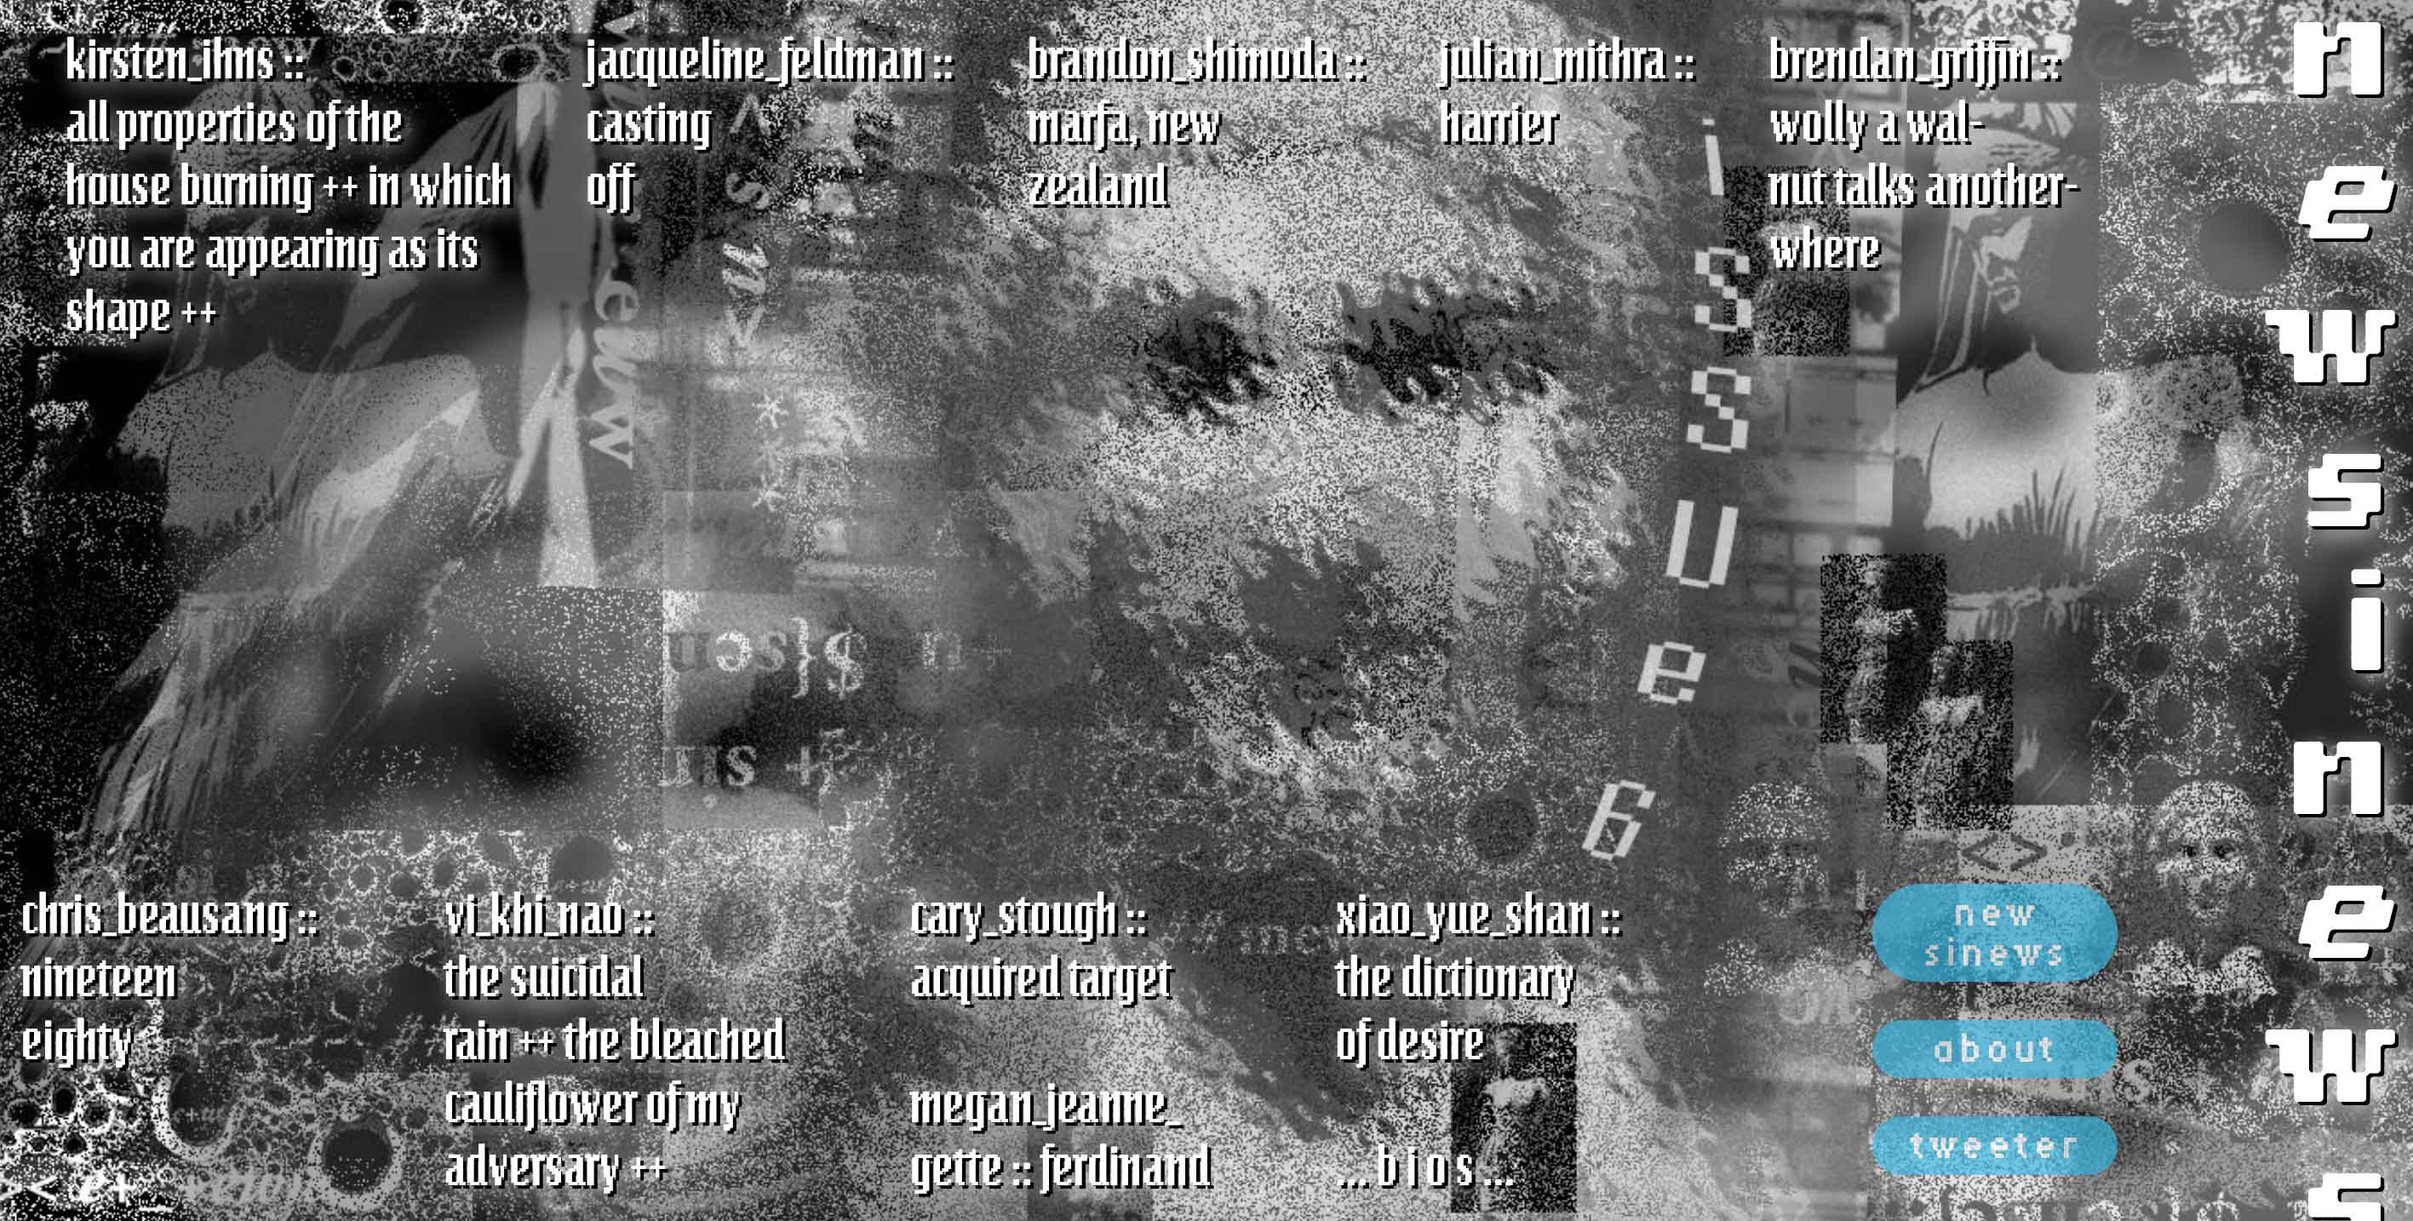
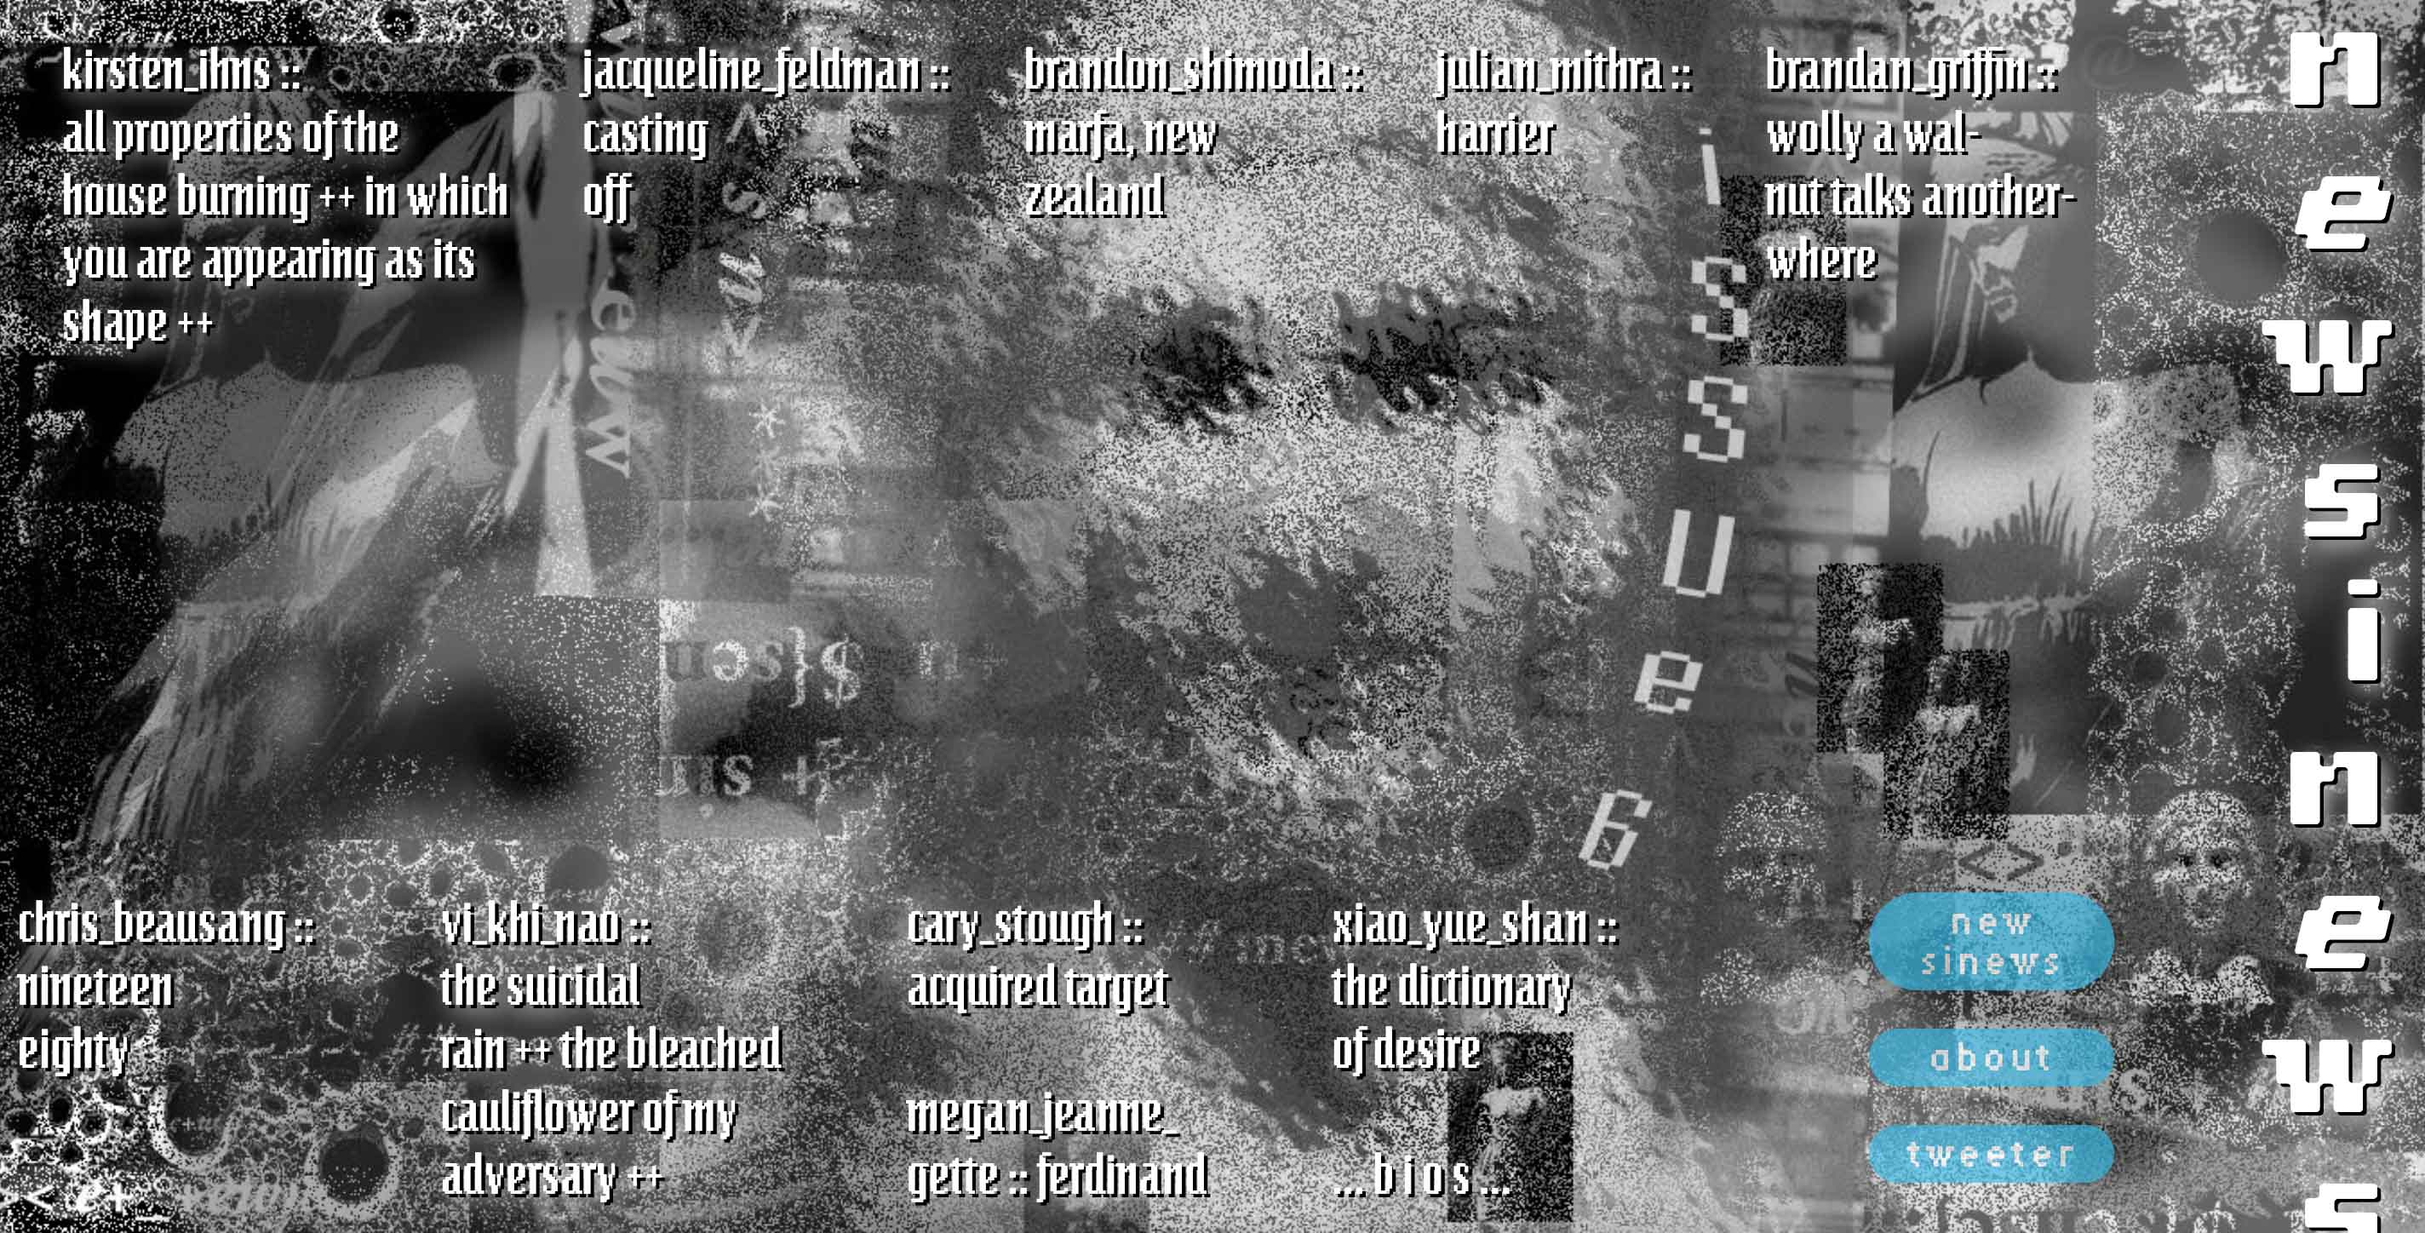
fixes all kinds of stuff

diff --git a/pages/issue6/index.js b/pages/issue6/index.js
@@ -16,39 +16,39 @@ export default function Issue6() {
 
               <div className={styles.issueContentsOne}>
                 <div className={styles.workColumn}>
-                 <Link href="/blank/ihns" passHref><div className={styles.workLink}>kirsten_ihns ::<br/>all properties of the<br/>house burning ++ in which <br/>you are appearing as its<br/>shape ++ </div></Link>
+                 <Link href="/issue6/ihns" passHref><div className={styles.workLink}>kirsten_ihns ::<br/>all properties of the<br/>house burning ++ in which <br/>you are appearing as its<br/>shape ++ </div></Link>
                 </div>
                 <div className={styles.workColumn}>
-                <Link href="/blank/castingoff" passHref><div className={styles.workLink}>jacqueline_feldman ::<br/>casting<br/>off</div></Link>
+                <Link href="/issue6/castingoff" passHref><div className={styles.workLink}>jacqueline_feldman ::<br/>casting<br/>off</div></Link>
                 </div>
                 <div className={styles.workColumn}>
-                  <Link href="/blank/mfnz" passHref><div className={styles.workLink}>brandon_shimoda ::<br/>marfa, new<br/>zealand</div></Link>
+                  <Link href="/issue6/mfnz" passHref><div className={styles.workLink}>brandon_shimoda ::<br/>marfa, new<br/>zealand</div></Link>
                 </div>
                 <div className={styles.workColumn}>
-                <Link href="/blank/harrier" passHref><div className={styles.workLink}> julian_mithra ::<br/>harrier</div></Link>
+                <Link href="/issue6/harrier" passHref><div className={styles.workLink}> julian_mithra ::<br/>harrier</div></Link>
                 </div>
                 <div className={styles.workColumn}>
-                  <Link href="/blank/griffin" passHref><div className={styles.workLink}>brandan_griffin ::<br/>wolly a wal-<br/>nut talks another-<br/>where</div></Link>
+                  <Link href="/issue6/griffin" passHref><div className={styles.workLink}>brandan_griffin ::<br/>wolly a wal-<br/>nut talks another-<br/>where</div></Link>
                 </div>
                 </div>
                   <div className={styles.issueContentsTwo}>
                 <div className={styles.workColumn}>
-                    <Link href="/blank/beausang" passHref><div className={styles.workLink}>chris_beausang ::<br/>nineteen<br/>eighty</div></Link>
+                    <Link href="/issue6/beausang" passHref><div className={styles.workLink}>chris_beausang ::<br/>nineteen<br/>eighty</div></Link>
                 </div>
                 <div className={styles.workColumn}>
-                  <Link href="/blank/numbers" passHref><div className={styles.workLink}>vi_khi_nao ::<br/>the suicidal<br/>rain ++ the bleached<br/>cauliflower of my<br/>adversary ++</div></Link>
+                  <Link href="/issue6/numbers" passHref><div className={styles.workLink}>vi_khi_nao ::<br/>the suicidal<br/>rain ++ the bleached<br/>cauliflower of my<br/>adversary ++</div></Link>
                 </div>
                 <div className={styles.workColumn}>
-                  <Link href="/blank/target" passHref><div className={styles.workLink}>cary_stough ::<br/>acquired target</div></Link>
+                  <Link href="/issue6/target" passHref><div className={styles.workLink}>cary_stough ::<br/>acquired target</div></Link>
                   <br/>
                   <br/>
-                    <Link href="/blank/ferdinand" passHref><div className={styles.workLink}>megan_jeanne_<br/>gette :: ferdinand</div></Link>
+                    <Link href="/issue6/ferdinand" passHref><div className={styles.workLink}>megan_jeanne_<br/>gette :: ferdinand</div></Link>
                 </div>
                 <div className={styles.workColumn}>
-                <Link href="/blank/desire" passHref><div className={styles.workLink}>xiao_yue_shan ::<br/>the dictionary<br/>of desire</div></Link>
+                <Link href="/issue6/desire" passHref><div className={styles.workLink}>xiao_yue_shan ::<br/>the dictionary<br/>of desire</div></Link>
                 <br/>
                 <br/>
-                <Link href="/blank/bios" passHref><div className={styles.workLink}>... b  i  o s ...</div></Link>
+                <Link href="/issue6/bios" passHref><div className={styles.workLink}>... b  i  o s ...</div></Link>
                   </div>
                   <div className={styles.siteShortcuts}>
                         <Link href="/" passHref><button className={styles.linkButton}>new sinews</button></Link>

diff --git a/pages/index.js b/pages/index.js
@@ -10,6 +10,7 @@ Home.image = "https://www.newnewsinews.com/images/Issue5Cover.jpg"
 
 export default function Home() {
 
+  const [issueSixDropdownClass, setIssueSixDropdownClass] = useState("issueContentClosed");
   const [issueFiveDropdownClass, setIssueFiveDropdownClass] = useState("issueContentClosed");
   const [issueFourDropdownClass, setIssueFourDropdownClass] = useState("issueContentClosed");
   const [issueThreeDropdownClass, setIssueThreeDropdownClass] = useState("issueContentClosed");
@@ -29,6 +30,28 @@ export default function Home() {
           <div className={styles.iconPlusSitebar}>
             <Link href="/" passHref><div className={styles.iconImage}></div></Link>
           <nav className={styles.siteNav}>
+          <div className={styles.dropDown} onMouseEnter={() => {
+            setIssueSixDropdownClass("issueContentOpen");
+          }}
+                                        onMouseLeave={() => {
+            setIssueSixDropdownClass("issueContentClosed");
+        }}>
+          <Link href="/issue6" passHref><button>issue_6</button></Link>
+          <div className={styles[issueSixDropdownClass]}>
+          <Link href="/issue6" passHref><button>new_sinews_issue6</button></Link>
+          <Link href="/issue6/ihns" passHref><button>kirsten ihns_all properties of the house burning ++ in which you are appearing as its shape ++</button></Link>
+          <Link href="/issue6/castingoff" passHref><button>jacqueline feldman_casting off</button></Link>
+          <Link href="/issue6/mfnz" passHref><button>brandon shimoda_marfa, new zealand</button></Link>
+          <Link href="/issue6/harrier" passHref><button>julian mithra_harrier</button></Link>
+          <Link href="/issue6/griffin" passHref><button>brandan griffin_wolly a walnut talks anotherwhere</button></Link>
+          <Link href="/issue6/beausang" passHref><button>chris beausang_1980</button></Link>
+          <Link href="/issue6/numbers" passHref><button>vi khi nao_the suicidal rain ++ the bleached cauliflower of my adversary ++</button></Link>
+          <Link href="/issue6/ferdinand" passHref><button>megan jeanne gette_ferdinand</button></Link>
+          <Link href="/issue6/target" passHref><button>cary stough_acquired target</button></Link>
+          <Link href="/issue6/desire" passHref><button>xiao yue shan_the dictionary of desire</button></Link>
+          <Link href="/issue6/bios" passHref><button>issue6_bios</button></Link>
+            </div>
+          </div>
           <div className={styles.dropDown} onMouseEnter={() => {
             setIssueFiveDropdownClass("issueContentOpen");
           }}
@@ -159,40 +182,40 @@ export default function Home() {
       <span className={styles.snowTypeface}>late empire new writing</span>
       <br/>
       <br/>
-      <span className={styles.lightTypeface}>_issue_five_</span>
+      <span className={styles.lightTypeface}>_issue_six_</span>
       <br/>
       <br/>
       <span className={styles.snowTypeface}>featuring</span>
       <br/>
       <br/>
-      <span className={styles.lightTypeface}>julia shiota
-      <br/>
-      <br/>
-      mike corrao
-      <br/>
-      <br/>
-      vi khi nao
-      <br/>
-      <br/>
-      jessica alexander
-      <br/>
-      <br/>
-      samuel moss
-      <br/>
-      <br/>
-      steven alvarez
+      <span className={styles.lightTypeface}>kirsten ihns
       <br/>
       <br/>
       jacqueline feldman
       <br/>
       <br/>
-      alvin lu
+      brandon shimoda
       <br/>
       <br/>
-      delia rainey
+      julian mithra
       <br/>
       <br/>
-      paul bisagni
+      brandan griffin
+      <br/>
+      <br/>
+      chris beausang
+      <br/>
+      <br/>
+      vi khi nao
+      <br/>
+      <br/>
+      megan jeanne gette
+      <br/>
+      <br/>
+      cary stough
+      <br/>
+      <br/>
+      xiao yue shan
       <br/>
       <br/>
            </span>

diff --git a/pages/about.js b/pages/about.js
@@ -11,7 +11,7 @@ About.image = "https://www.newnewsinews.com/images/ArchNewSinew.jpg"
 
 export default function About() {
 
-
+    const [issueSixDropdownClass, setIssueSixDropdownClass] = useState("issueContentClosed");
     const [issueFiveDropdownClass, setIssueFiveDropdownClass] = useState("issueContentClosed");
     const [issueFourDropdownClass, setIssueFourDropdownClass] = useState("issueContentClosed");
     const [issueThreeDropdownClass, setIssueThreeDropdownClass] = useState("issueContentClosed");
@@ -47,6 +47,28 @@ return (
     <div className={styles.iconPlusSitebar}>
     <Link href="/" passHref><div className={styles.iconImage}></div></Link>
     <nav className={styles.siteNav}>
+    <div className={styles.dropDown} onMouseEnter={() => {
+      setIssueSixDropdownClass("issueContentOpen");
+    }}
+                                  onMouseLeave={() => {
+      setIssueSixDropdownClass("issueContentClosed");
+  }}>
+    <Link href="/issue6" passHref><button>issue_6</button></Link>
+    <div className={styles[issueSixDropdownClass]}>
+    <Link href="/issue6" passHref><button>new_sinews_issue6</button></Link>
+    <Link href="/issue6/ihns" passHref><button>kirsten ihns_all properties of the house burning ++ in which you are appearing as its shape ++</button></Link>
+    <Link href="/issue6/castingoff" passHref><button>jacqueline feldman_casting off</button></Link>
+    <Link href="/issue6/mfnz" passHref><button>brandon shimoda_marfa, new zealand</button></Link>
+    <Link href="/issue6/harrier" passHref><button>julian mithra_harrier</button></Link>
+    <Link href="/issue6/griffin" passHref><button>brandan griffin_wolly a walnut talks anotherwhere</button></Link>
+    <Link href="/issue6/beausang" passHref><button>chris beausang_1980</button></Link>
+    <Link href="/issue6/numbers" passHref><button>vi khi nao_the suicidal rain ++ the bleached cauliflower of my adversary ++</button></Link>
+    <Link href="/issue6/ferdinand" passHref><button>megan jeanne gette_ferdinand</button></Link>
+    <Link href="/issue6/target" passHref><button>cary stough_acquired target</button></Link>
+    <Link href="/issue6/desire" passHref><button>xiao yue shan_the dictionary of desire</button></Link>
+    <Link href="/issue6/bios" passHref><button>issue6_bios</button></Link>
+      </div>
+    </div>
     <div className={styles.dropDown} onMouseEnter={() => {
       setIssueFiveDropdownClass("issueContentOpen");
     }}

diff --git a/components/header.js b/components/header.js
@@ -6,6 +6,7 @@ import styles from '../styles/Header.module.css'
 
 
 export default function Header(props) {
+  const [issueSixDropdownClass, setIssueSixDropdownClass] = useState("issueContentClosed");
   const [issueFiveDropdownClass, setIssueFiveDropdownClass] = useState("issueContentClosed");
   const [issueFourDropdownClass, setIssueFourDropdownClass] = useState("issueContentClosed");
   const [issueThreeDropdownClass, setIssueThreeDropdownClass] = useState("issueContentClosed");
@@ -17,6 +18,28 @@ export default function Header(props) {
   <div className={styles.iconPlusSitebar}>
   <Link href="/" passHref><div className={styles.iconImage}></div></Link>
   <nav className={styles.siteNav}>
+  <div className={styles.dropDown} onMouseEnter={() => {
+    setIssueSixDropdownClass("issueContentOpen");
+  }}
+                                onMouseLeave={() => {
+    setIssueSixDropdownClass("issueContentClosed");
+}}>
+  <Link href="/issue6" passHref><button>issue_6</button></Link>
+  <div className={styles[issueSixDropdownClass]}>
+  <Link href="/issue6" passHref><button>new_sinews_issue6</button></Link>
+  <Link href="/issue6/ihns" passHref><button>kirsten ihns_all properties of the house burning ++ in which you are appearing as its shape ++</button></Link>
+  <Link href="/issue6/castingoff" passHref><button>jacqueline feldman_casting off</button></Link>
+  <Link href="/issue6/mfnz" passHref><button>brandon shimoda_marfa, new zealand</button></Link>
+  <Link href="/issue6/harrier" passHref><button>julian mithra_harrier</button></Link>
+  <Link href="/issue6/griffin" passHref><button>brandan griffin_wolly a walnut talks anotherwhere</button></Link>
+  <Link href="/issue6/beausang" passHref><button>chris beausang_1980</button></Link>
+  <Link href="/issue6/numbers" passHref><button>vi khi nao_the suicidal rain ++ the bleached cauliflower of my adversary ++</button></Link>
+  <Link href="/issue6/ferdinand" passHref><button>megan jeanne gette_ferdinand</button></Link>
+  <Link href="/issue6/target" passHref><button>cary stough_acquired target</button></Link>
+  <Link href="/issue6/desire" passHref><button>xiao yue shan_the dictionary of desire</button></Link>
+  <Link href="/issue6/bios" passHref><button>issue6_bios</button></Link>
+    </div>
+  </div>
   <div className={styles.dropDown} onMouseEnter={() => {
     setIssueFiveDropdownClass("issueContentOpen");
   }}

diff --git a/next.config.js b/next.config.js
@@ -289,9 +289,71 @@ module.exports = {
       },
 
       {
+        source: '/issue6',
+        destination: '/issue6/index',
+      },
+
+      {
+        source: '/ihns',
+        destination: '/issue6/ihns',
+      },
+
+      {
+        source: '/castingoff',
+        destination: '/issue6/castingoff',
+      },
+
+      {
+        source: '/mfnz',
+        destination: '/issue6/mfnz',
+      },
+
+      {
+        source: '/harrier',
+        destination: '/issue6/harrier',
+      },
+
+      {
+        source: '/griffin',
+        destination: '/issue6/griffin',
+      },
+
+      {
+        source: '/beausang',
+        destination: '/issue6/beausang',
+      },
+
+      {
+        source: '/numbers',
+        destination: '/issue6/numbers',
+      },
+
+      {
+        source: '/ferdinand',
+        destination: '/issue6/ferdinand',
+      },
+
+      {
+        source: '/target',
+        destination: '/issue6/target',
+      },
+
+      {
+        source: '/desire',
+        destination: '/issue6/desire',
+      },
+
+
+      {
+        source: '/issue6bios',
+        destination: '/issue6/bios',
+      },
+
+      {
         source: '/home',
         destination: '/',
       },
+
 
     ]
   },

diff --git a/styles/Header.module.css b/styles/Header.module.css
@@ -336,13 +336,18 @@
 @media (width:1024px) and (height:1366px) {
 
   .iconImage {
-    width:23vw;
-    height:33vh;
+    width:19vw;
+    height:29vh;
     margin:12vh 0 0 5vw;
   }
 
+  .siteNav {
+    margin-right:3%;
+  }
+
   .siteNav > .dropDown > button, .home, .about {
-  font-size:0.6rem;
+  font-size:0.8rem;
+  padding: 6px 11px;
   }
 
  }
@@ -403,7 +408,7 @@
     display:inline-flex;
     flex-flow:column wrap;
     justify-content:flex-end;
-    margin:17vh 6vw 0 0 ;
+    margin:19vh 6vw 0 0 ;
   }
 
   .siteNav > .dropDown > button, .home, .about {
@@ -436,7 +441,7 @@
  @media (max-width: 768px) and (height:1024px) {
 
    .siteNav {
-     margin:27vh 6vw 0 0 ;
+     margin:20vh 6vw 0 0 ;
    }
 
   }
@@ -449,10 +454,20 @@
    }
  }
 
+ @media (width:720px) and (height:540px) {
+
+   .siteNav > button, .home, .about {
+     padding:1.5px 3px;
+     font-size:0.43rem;
+   }
+
+  }
+
  @media (max-width: 668px) and (orientation:landscape) {
 
    .siteNav > .dropDown > button, .home, .about {
    font-size:0.5rem;
+   margin-right:1%;
    }
  }
 

diff --git a/pages/issue6/ihns.js b/pages/issue6/ihns.js
@@ -115,7 +115,6 @@ the sanctuary is there by itself so on hand
 
           a gel
 
-
                                  at all times you decide what belongs together
                       have to go back in myself and require something in there
           the future of knitwear

diff --git a/styles/Home.module.css b/styles/Home.module.css
@@ -224,6 +224,10 @@
     margin:19% 0 0 1%;
   }
 
+  .siteNav {
+    margin-right:2%;
+  }
+
 
 }
 
@@ -231,6 +235,10 @@
 
   .graffiti {
     margin:19% 0 0 1%;
+  }
+
+  .siteNav {
+    margin-right:2%;
   }
 
 
